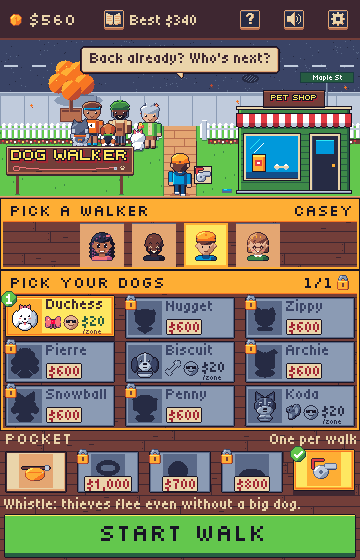
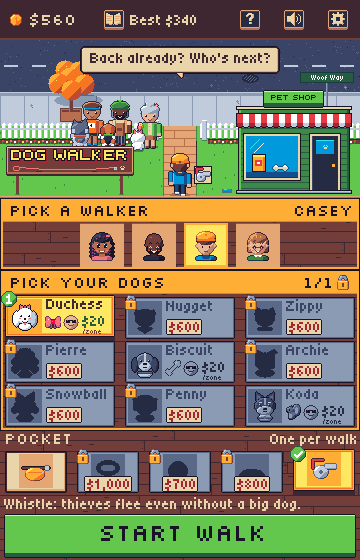
Build the pet shop's PET SHOP board as the go button: green face, yellow highlight, forest lip, ink letters, pressing as go-pressed; reuse ui-pet-shop in the start shop mock

Changed region(s): [[0.7333, 0.1214, 0.9472, 0.2125], [0.7028, 0.2732, 0.825, 0.3339]]

diff --git a/public/art/mocks/start-shop.html b/public/art/mocks/start-shop.html
@@ -82,7 +82,7 @@ th { font-family: var(--f-display); font-weight: 400; color: var(--muted); }
         <tr><td>Padlock</td><td><code>icon-lock</code> at tile -2,-3 (locked only)</td><td></td></tr>
         <tr><td>Price plate</td><td>Centred on the tile, caps at tile y 28 (plate rows 25 to 39), over the box's foot (locked only)</td><td>Cream plate in a 1px ink edge, font-body 2x: forest when the bank covers it, darkRed when not; no gold outline here</td></tr>
         <tr><td>Pocketed</td><td>Lifted 2px onto a plum shadow; <code>ui-check</code> tick at tile -3,-3</td><td>The tick clears the label line by 1 row</td></tr>
-        <tr><td>Effect line</td><td>x 4, caps at y 499 (descenders to 512), up to 352 wide</td><td>font-body 2x, cream: "Whistle: thieves flee even without a big dog." or "Empty: tap an item to bring it"</td></tr>
+        <tr><td>Effect line</td><td>x 4, caps at y 499 (descenders to 512), up to 352 wide</td><td>font-body 2x, cream: "Whistle: thieves flee even without a big dog." or "Empty. Tap a gear item to pocket it."</td></tr>
       </table>
     </div>
   </section>
@@ -108,7 +108,7 @@ th { font-family: var(--f-display); font-weight: 400; color: var(--muted); }
   <section class="note">
     <h2>What it needs</h2>
     <ul>
-      <li>New shipped art: <code>ui-pet-shop</code> (120x104 at 234,90, tags normal and pressed, the board's letters baked in), <code>screen-home</code> redrawn without the mailbox behind it, and <code>icon-dog-slot</code> (32x32, the doghouse with a plus). Locked silhouettes and the grey "pack full" art can be made in code, the way <code>greyTextureKey</code> makes grey cards.</li>
+      <li>New shipped art: <code>ui-pet-shop</code> (120x104 at 234,90, tags normal and pressed, the board built and coloured as <code>ui-button</code> <code>go</code> with its ink letters baked in), <code>screen-home</code> redrawn without the mailbox behind it, and <code>icon-dog-slot</code> (32x32, the doghouse with a plus). Locked silhouettes and the grey "pack full" art can be made in code, the way <code>greyTextureKey</code> makes grey cards.</li>
       <li>Code:
         <ul>
           <li>Top bar: help, sound and settings at x 240, 284 and 328.</li>

diff --git a/art/mocks-src/start_shop.py b/art/mocks-src/start_shop.py
@@ -11,8 +11,8 @@ everything for sale is in a Pet shop building in the gate scene's right yard, wh
 shop page (Gear tab: gear with prices or OWNED; Dogs tab: pack slots and dogs). Also a strip of
 the tile states for dogs and pocket gear.
 
-New pieces drawn only here: the pet shop building, the locked silhouettes, the price and goal
-plates and the slot icon.
+New pieces drawn only here: the locked silhouettes, the price and goal plates and the slot icon.
+The pet shop building is the shipped ui-pet-shop sprite.
 
 Usage:
   start_shop.py build DIR    write public/art/mocks/start-shop/*.png, with the uniform frames in DIR
@@ -264,91 +264,7 @@ def check(cv, x, y, label="tick"):
     put(cv, frame("ui-check", label), x, y)
 
 
-# ---------- the pet shop building (new art) ----------
-
-def pet_shop():
-    """120x104: a small shop front on the yard's right lot. A board over the door carries PET SHOP
-    in the sign letters at 1x (yellow, ink outline, dred shadow, as the yard sign); under it a
-    striped awning, a display window with a food bag and a bone, and a door. Walls dgreen lit on
-    the left, forest on the right; ink outline all round."""
-    w, h = 120, 104
-    cv = Image.new("RGBA", (w, h), (0, 0, 0, 0))
-    # walls
-    fill(cv, 4, 18, w - 8, h - 18, "ink")
-    fill(cv, 5, 19, w - 10, h - 20, "dgreen")
-    fill(cv, 5, 19, 2, h - 20, "green")
-    fill(cv, w - 7, 19, 2, h - 20, "forest")
-    for y in range(26, h - 6, 6):  # siding
-        fill(cv, 7, y, w - 14, 1, "forest")
-    # parapet trim
-    fill(cv, 2, 16, w - 4, 4, "ink")
-    fill(cv, 3, 17, w - 6, 2, "cream")
-    # sign board
-    letters, adv = fonts.sign("PET SHOP", 1)
-    xs = [p[0] for p in letters]
-    lw = max(xs) + 1 - min(xs)
-    bw = lw + 14
-    bx = (w - bw) // 2
-    fill(cv, bx, 0, bw, 18, "ink")
-    fill(cv, bx + 1, 1, bw - 2, 16, "dbrown")
-    fill(cv, bx + 1, 1, bw - 2, 1, "brown")
-    fill(cv, bx + 1, 16, bw - 2, 1, "plum")
-    ox, oy = bx + 7 - min(xs), 4
-    px = cv.load()
-    for (x, y), c in letters.items():
-        if 0 <= ox + x < w and 0 <= oy + y < h:
-            px[ox + x, oy + y] = rgb(c)
-    # awning: red and white stripes over a scalloped edge
-    top, bot = 24, 36
-    fill(cv, 2, top - 1, w - 4, bot - top + 2, "ink")
-    for x in range(3, w - 3):
-        c = "red" if ((x - 3) // 6) % 2 == 0 else "white"
-        shade = "dred" if c == "red" else "lgrey"
-        for y in range(top, bot):
-            px[x, y] = rgb(shade if y >= bot - 3 else c)
-        if ((x - 3) % 6) in (1, 2, 3, 4):
-            px[x, bot] = rgb(shade)
-            px[x, bot + 1] = rgb("ink")
-        else:
-            px[x, bot] = rgb("ink")
-    # display window
-    wx, wy, ww, wh = 10, 44, 56, 46
-    fill(cv, wx - 1, wy - 1, ww + 2, wh + 2, "ink")
-    fill(cv, wx, wy, ww, wh, "cream")
-    fill(cv, wx + 2, wy + 2, ww - 4, wh - 4, "sky")
-    fill(cv, wx + 2, wy + wh - 8, ww - 4, 6, "blue")
-    for i in range(10):  # glints
-        if 0 <= wx + 6 + i < w:
-            px[wx + 6 + i, wy + 14 - i] = rgb("cyan")
-            px[wx + 10 + i, wy + 18 - i] = rgb("white")
-    # a food bag and a bone on the sill
-    fill(cv, wx + 8, wy + 20, 14, 18, "ink")
-    fill(cv, wx + 9, wy + 21, 12, 16, "amber")
-    fill(cv, wx + 9, wy + 21, 12, 2, "yellow")
-    fill(cv, wx + 19, wy + 23, 2, 14, "orange")
-    fill(cv, wx + 11, wy + 26, 7, 6, "red")
-    fill(cv, wx + 13, wy + 28, 3, 2, "white")
-    bone = ["..cc.......cc..", ".cccc.....cccc.", "ccccccccccccccc", "ccccccccccccccc", ".cccc.....cccc.", "..cc.......cc.."]
-    for y, row in enumerate(bone):
-        for x, ch in enumerate(row):
-            if ch == "c":
-                px[wx + 30 + x, wy + 30 + y] = rgb("white" if y < 2 else "lgrey" if y > 3 else "cream")
-    fill(cv, wx + 2, wy + wh - 2, ww - 4, 0 or 1, "plum")
-    # door
-    dx, dy, dw = 76, 44, 30
-    fill(cv, dx - 1, dy - 1, dw + 2, h - dy, "ink")
-    fill(cv, dx, dy, dw, h - dy - 4, "cream")
-    fill(cv, dx + 2, dy + 2, dw - 4, h - dy - 6, "navy")
-    fill(cv, dx + 2, dy + 2, 1, h - dy - 6, "dslate")
-    fill(cv, dx + 6, dy + 6, dw - 12, 14, "sky")
-    fill(cv, dx + 6, dy + 6, dw - 12, 1, "cyan")
-    fill(cv, dx + dw - 8, dy + 30, 3, 3, "amber")
-    # step
-    fill(cv, 2, h - 4, w - 4, 4, "ink")
-    fill(cv, 3, h - 3, w - 6, 2, "lgrey")
-    fill(cv, 3, h - 2, w - 6, 1, "grey")
-    return cv
-
+# ---------- new art ----------
 
 def slot_icon():
     """32x32: a doghouse with a plus, for a pack slot for sale (new art)."""
@@ -419,9 +335,9 @@ def gate(cv, base, line, shop_new, pocket):
         cv.paste(home.crop((x, y, x + w, y + h)), (x, y))
     # the tree and owners the bubble area cut are in screen-home or below it; redraw the porch row
     cv.paste(base.crop((60, 94, 240, 126)), (60, 94))
-    body(cv, "Maple St", 327, 75, "white", "centre", sc=1)
+    body(cv, "Woof Way", 327, 75, "white", "centre", sc=1)
     x, y, w, h = SHOP
-    put(cv, pet_shop(), x, y)
+    put(cv, frame("ui-pet-shop", "normal"), x, y)
     if shop_new:
         afford(cv, x, y, w, h)
     if pocket:
@@ -508,7 +424,7 @@ def dog_section(cv, picked, owned, bank, capacity=1, more_slots=True):
 
 def pocket_line(item):
     if item is None:
-        return "Empty: tap an item to bring it"
+        return "Empty. Tap a gear item to pocket it."
     line = f"{GEAR_NAME[item]}: {GEAR_ABOUT[item]}"
     return line if BODY.width(line, 2) <= 352 else f"{GEAR_NAME[item]}: {GEAR_LINE[item].lower()}"
 

diff --git a/art/tools/screens.py b/art/tools/screens.py
@@ -44,12 +44,14 @@ reads on them.
 ui-pet-shop: a 120x104 sprite, tags normal and pressed: the pet shop on the
 yard's right lot, which opens the shop. The game draws it at PET_SHOP_AT
 (234,90), its base on the yard's bottom row (193), and its hit area is the
-frame. A board over the parapet carries PET SHOP in the sign letters at 1x
-(yellow, ink outline, 1px dred shadow); under it a red and white awning, a
+frame. A board over the parapet, built and coloured as ui-button's go state
+(green face, yellow highlight, forest lip, ink line), carries PET SHOP in the
+sign letters' fills at 1x in ink, as the go label; under it a red and white awning, a
 display window with a food bag and a bone, and a door with a paw on its
 glass; dgreen siding lit on the left, forest on the right, ink outline all
 round, on a grey step. pressed dips as ui-button does: the front sinks 2px
-onto the step, rows 0 and 1 clear and the step 1px shallower. An affordable
+onto the step, rows 0 and 1 clear and the step 1px shallower, and the board
+loses its lip and highlight to face, as go-pressed. An affordable
 item in the shop takes ui-afford 2px outside the frame (232,88 124x108).
 
 ui-loading-track: a 200x8 image, the dotted path the pair walks along, with a
@@ -85,6 +87,7 @@ import backdrops as bd  # noqa: E402
 import fonts  # noqa: E402
 import help as hp  # noqa: E402
 from pixel import DARKER, Grid, K, build as build_sprites  # noqa: E402
+from ui import STATES  # noqa: E402
 
 W, H = 360, 560
 LOGO_W, LOGO_H = 128, 30
@@ -372,17 +375,24 @@ def pet_shop(pressed=False):
     # the parapet trim
     cv.fill(2, 16 + t, w - 4, 4, "ink")
     cv.fill(3, 17 + t, w - 6, 2, "cream")
-    # the board: PET SHOP in the sign letters at 1x on a dbrown face, as the yard sign
+    # the board: ui-button's go state, a green face with a yellow top highlight on a forest lip 4px
+    # deep, in an ink line with its corners cut, and PET SHOP in the sign letters' fills at 1x in
+    # ink (8.41:1 on green), as the go label. Pressed, the lip and highlight give way to face, as
+    # go-pressed; the board rides down with the front, so its face and letters sink 2px.
     letters, _ = fonts.sign("PET SHOP", 1)
     x0 = min(x for x, _ in letters)
     bw = fonts.sign_width("PET SHOP", 1) + 14
     bx = (w - bw) // 2
-    cv.fill(bx, t, bw, 18, "ink")
-    cv.fill(bx + 1, 1 + t, bw - 2, 16, "dbrown")
-    cv.fill(bx + 1, 1 + t, bw - 2, 1, "brown")
-    cv.fill(bx + 1, 16 + t, bw - 2, 1, "plum")
+    face, lip, hi = STATES["go"]
+    cv.fill(bx + 1, t, bw - 2, 18, "ink")
+    cv.fill(bx, 1 + t, bw, 16, "ink")
+    cv.fill(bx + 1, 1 + t, bw - 2, 16, face)
+    if not pressed:
+        cv.fill(bx + 1, 1, bw - 2, 1, hi)
+        cv.fill(bx + 1, 13, bw - 2, 4, lip)
     for (x, y), c in letters.items():
-        cv.fill(bx + 7 - x0 + x, 4 + t + y, 1, 1, c)
+        if c not in ("ink", "dred"):
+            cv.fill(bx + 7 - x0 + x, 4 + t + y, 1, 1, "ink")
     # the awning: red and white stripes 6px wide, shaded along the bottom, over a scalloped ink edge
     top, bot = 24 + t, 36 + t
     cv.fill(2, top - 1, w - 4, bot - top + 2, "ink")

diff --git a/art/style-guide.md b/art/style-guide.md
@@ -63,7 +63,7 @@ Names are `PALETTE` names in `src/scenes/palette.ts`; ratios are WCAG.
 | white on darkBrown             | 8.48  | Floating loss on the column, filled page dot                                                                             |
 | tan on darkBrown               | 4.04  | Empty slot dashed border, hollow page dots                                                                               |
 | white on forest                | 7.80  | Labels on chips                                                                                                          |
-| ink on green                   | 8.41  | `ui-button` `go` label                                                                                                   |
+| ink on green                   | 8.41  | `ui-button` `go` label, `ui-pet-shop` board                                                                              |
 | white on rust                  | 4.99  | Trait chip "Food"                                                                                                        |
 | white on darkRed, blue, purple | 7.34+ | Card bands, `ui-hit-label`, `ui-fired-plate`, the FIRED plate on the empty `ui-doghouse`                                 |
 | white on navy                  | 13.89 | `ui-detail-band` title                                                                                                   |
@@ -86,8 +86,8 @@ Names are `PALETTE` names in `src/scenes/palette.ts`; ratios are WCAG.
 - `ui-section` frames each start screen section: `incomplete` (ink frame, navy band, cream heading, amber prompt), `complete` (amber border and band, ink text), `neutral` (as incomplete, no prompt) for optional gear with nothing equipped. The yard sign logo is flat yellow letters with an ink outline and a solid dred shadow (yellow on darkBrown 6.79:1). Home, pause, help and sound sit on `ui-icon-button`.
 - `ui-sticker` (56×28) is a starburst in an ink outline: `new` (yellow body, amber spikes) on a dog or gear tile that just became affordable, `price` (cyan body, sky spikes) for the next locked item's price, `pop` (4 frames, 70ms, ending on the `new` look) for a badge-earned moment. At most one sticker per screen (`new` wins over `price`), never on the run screen's road or over a choice card. On a tile, its right edge sits 2px right of the tile's (kept 2px inside the screen) and its bottom 4px below the tile's, over the price line, which the tile then leaves out. The word is in `font-title` at 1×, ink, centred on x 28 with its caps in rows 12 to 16, up to 36px wide: "NEW!" or the price as the game formats it. Write the word after `pop` ends; with reduced motion show the last frame.
 - Fonts: `font-body` (Tiny5, mixed case) for body text, quips and floating labels; `font-title` (Silkscreen, capitals) for titles, numbers and buttons. Floating numbers use the font, not sprites.
-- Display lettering: the yard sign logo's letters (yellow fill, 1px ink outline, solid dred shadow) for big words only, never body text: zone names on `ui-zone-banner`, "WHICH WAY?", "FIRED!", "NEW BEST!", the end screen title and hit labels, in `font-display` (yellow) or `font-display-cream` (cream), 10px capitals with the colours baked in, drawn untinted. In-art signs (shop boards, `ui-pet-shop`'s PET SHOP board, the park gate, the lemonade stand) use the same letters and outline at 1x with a 1px shadow.
-- `ui-pet-shop` (120×104) stands on the gate scene's right lot at 234,90, its step on the yard's bottom row (193); its hit area is its frame. `pressed` dips as `ui-button` does: the front sinks 2px onto a step 1px shallower. When something in the shop is affordable, `ui-afford` goes 2px outside it (232,88 124×108), as on a tile. The street sign's plate (300,72 54×11) holds the street name in `font-body` at 1×, white, centred at 327,75: "Woof Way" is 32px wide, "WOOF WAY" 39px, inside the 52px face.
+- Display lettering: the yard sign logo's letters (yellow fill, 1px ink outline, solid dred shadow) for big words only, never body text: zone names on `ui-zone-banner`, "WHICH WAY?", "FIRED!", "NEW BEST!", the end screen title and hit labels, in `font-display` (yellow) or `font-display-cream` (cream), 10px capitals with the colours baked in, drawn untinted. In-art signs (shop boards, the park gate, the lemonade stand) use the same letters and outline at 1x with a 1px shadow. `ui-pet-shop`'s PET SHOP board is a button, not a sign: the same letter shapes at 1x, filled ink with no outline or shadow.
+- `ui-pet-shop` (120×104) stands on the gate scene's right lot at 234,90, its step on the yard's bottom row (193); its hit area is its frame. Its PET SHOP board is built and coloured as `ui-button` `go` (green face, yellow highlight, forest lip, ink line, ink letters 8.41:1). `pressed` dips as `ui-button` does: the front sinks 2px onto a step 1px shallower, and the board's lip and highlight give way to face, as `go-pressed`. When something in the shop is affordable, `ui-afford` goes 2px outside it (232,88 124×108), as on a tile. The street sign's plate (300,72 54×11) holds the street name in `font-body` at 1×, white, centred at 327,75: "Woof Way" is 32px wide, "WOOF WAY" 39px, inside the 52px face.
 
 ### Interaction states
 
@@ -98,9 +98,10 @@ Every tile, button, card, tab and switch row is in one of four states, drawn the
 | normal   | Available, not chosen; a locked item the bank covers, with `ui-afford` 2px outside it | Cream face, ink and plum lines, tan lip (`ui-tile` `normal`, `ui-button` `normal`)         | plum (9.42:1)                                        |
 | selected | Picked, equipped, toggled on, the open tab or page                                    | Gold: ink line, amber band, orange line, yellow face (`ui-tile` `selected`)                | plum (10.92:1)                                       |
 | disabled | Cannot be chosen: locked and not affordable, the pack full, not available             | Flat grey face, ink and slate lines, no lip (`ui-tile` `disabled`, `ui-button` `disabled`) | darkSlate (3.39:1, exempt); a price in navy (4.93:1) |
-| primary  | The one call to action on a screen: Start walk, Resume, Got it, Nice!                 | Raised green face on a forest lip (`ui-button` `go`)                                       | ink (8.41:1)                                         |
+| primary  | The call to action: Start walk, Resume, Got it, Nice!, and the Pet shop board         | Raised green face on a forest lip (`ui-button` `go`; `ui-pet-shop`'s board)                | ink (8.41:1)                                         |
 
 - Art inside a disabled tile (faces, icons, the padlock) draws from its grey copy (`greyTextureKey`, as a disabled card) one ramp step darker (`remapDarker`), on a slate box; a normal tile's box is tan, a selected one's amber.
+- The primary green marks a screen's call to action. On the start screen it marks Start walk and the Pet shop board, the one other tappable entry point there, so both read as tappable; Start walk stays the only full-width primary button.
 - A disabled primary (Start walk before a walker and a dog are picked) is `go-disabled`, which matches `disabled`.
 - `secondary` and `secondary-pressed` match `normal` and `pressed`: every button that is not the screen's primary is `normal`.
 - Cards follow the same states: a disabled card is redrawn in the grey ramp, the selected one is outlined in amber. A switch row's state is its switch; the row itself is normal or disabled.
